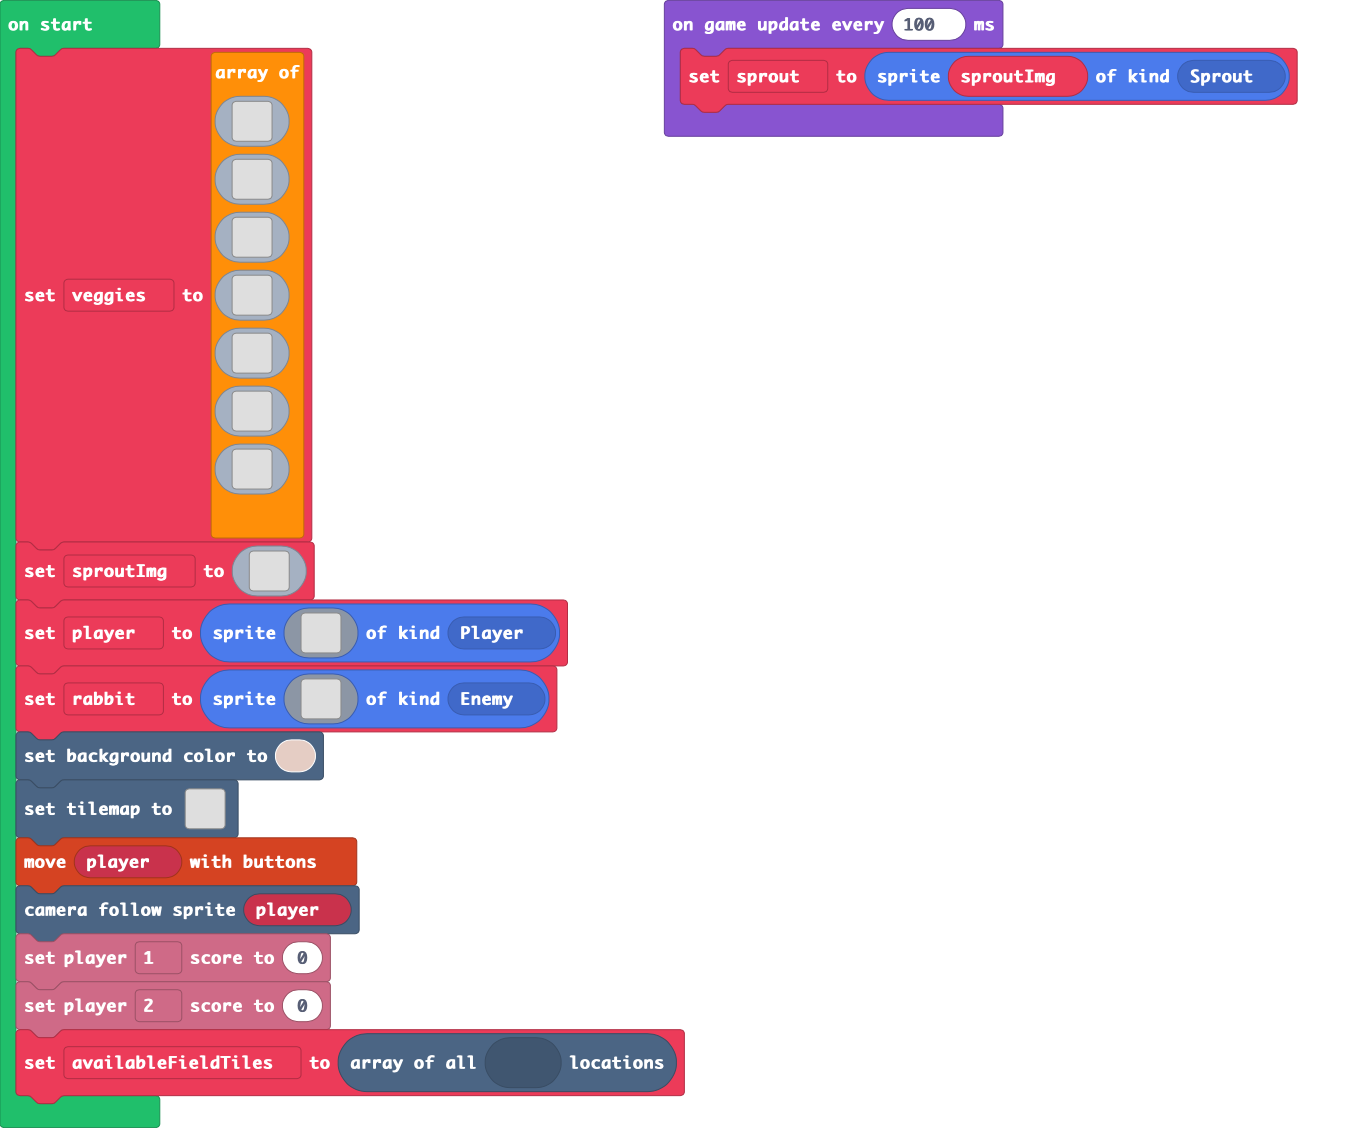
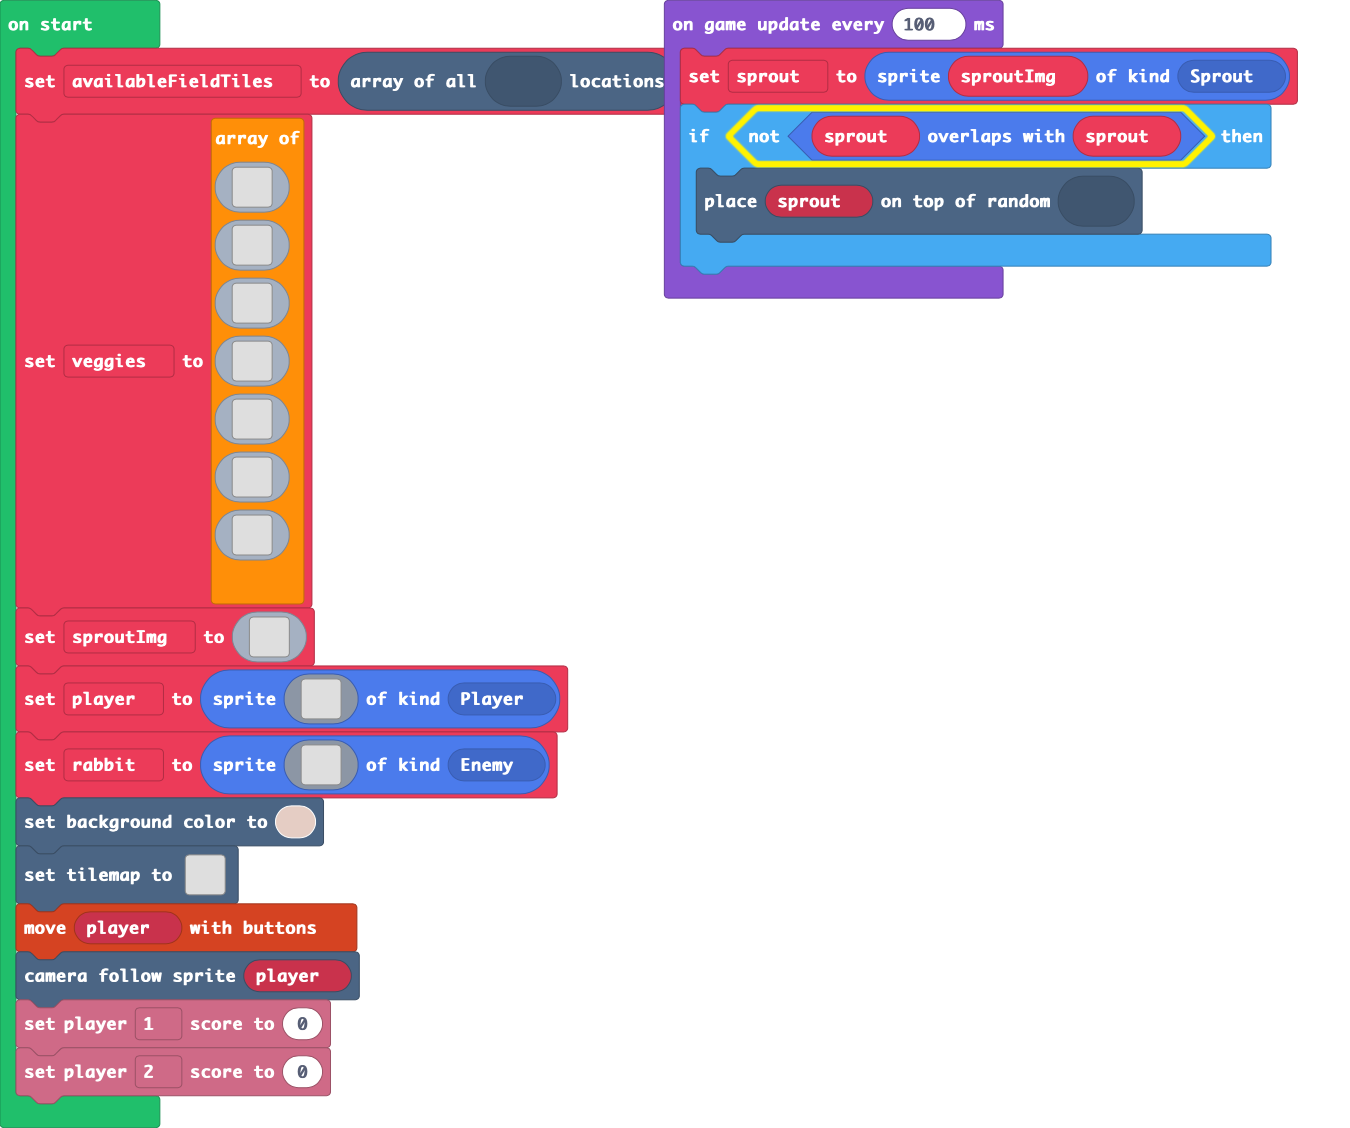
Update main.blocks, main.ts

Changed region(s): [[0.0, 0.031, 0.9644, 0.9929]]

diff --git a/main.ts b/main.ts
@@ -4,10 +4,6 @@ namespace SpriteKind {
 }
 let sprout: Sprite = null
 let availableFieldTiles = tiles.getTilesByType(myTiles.tile1)
-let groundIndex = randint(0, availableFieldTiles.length - 1)
-let groundTile = availableFieldTiles[groundIndex]
-tiles.placeOnTile(sprout, groundTile)
-availableFieldTiles.removeAt(groundIndex)
 let veggies = [
 img`
     . . . . . . . . . . . . . . . . 
@@ -186,4 +182,7 @@ info.player1.setScore(0)
 info.player2.setScore(0)
 game.onUpdateInterval(100, function () {
     sprout = sprites.create(sproutImg, SpriteKind.Sprout)
+    if (!(sprout.overlapsWith(sprout))) {
+        tiles.placeOnRandomTile(sprout, myTiles.tile1)
+    }
 })
